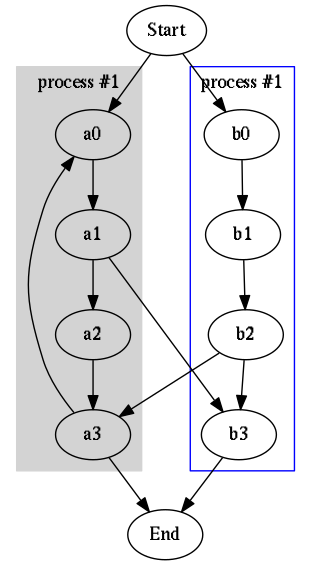
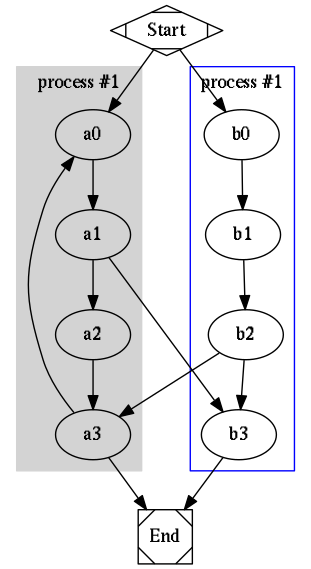
Update Example.

diff --git a/src/test/java/example/apiExample.java b/src/test/java/example/apiExample.java
@@ -118,7 +118,9 @@ public class apiExample {
         cluster_1.addEdge(new Edge("",b1,b2));
         cluster_1.addEdge(new Edge("",b2,b3));
         Node startNode = new Node("Start");
+        startNode.addAttribute(new Attribute("shape","Mdiamond"));
         Node endNode = new Node("End");
+        endNode.addAttribute(new Attribute("shape","Msquare"));
         graph.addNode(startNode);
         graph.addNode(endNode);
         graph.addSubgraph(cluster_0);

diff --git a/README.md b/README.md
@@ -72,7 +72,9 @@ public void draw(){
     cluster_1.addEdge(new Edge("",b1,b2));
     cluster_1.addEdge(new Edge("",b2,b3));
     Node startNode = new Node("Start");
+    startNode.addAttribute(new Attribute("shape","Mdiamond"));
     Node endNode = new Node("End");
+    endNode.addAttribute(new Attribute("shape","Msquare"));
     graph.addNode(startNode);
     graph.addNode(endNode);
     graph.addSubgraph(cluster_0);
